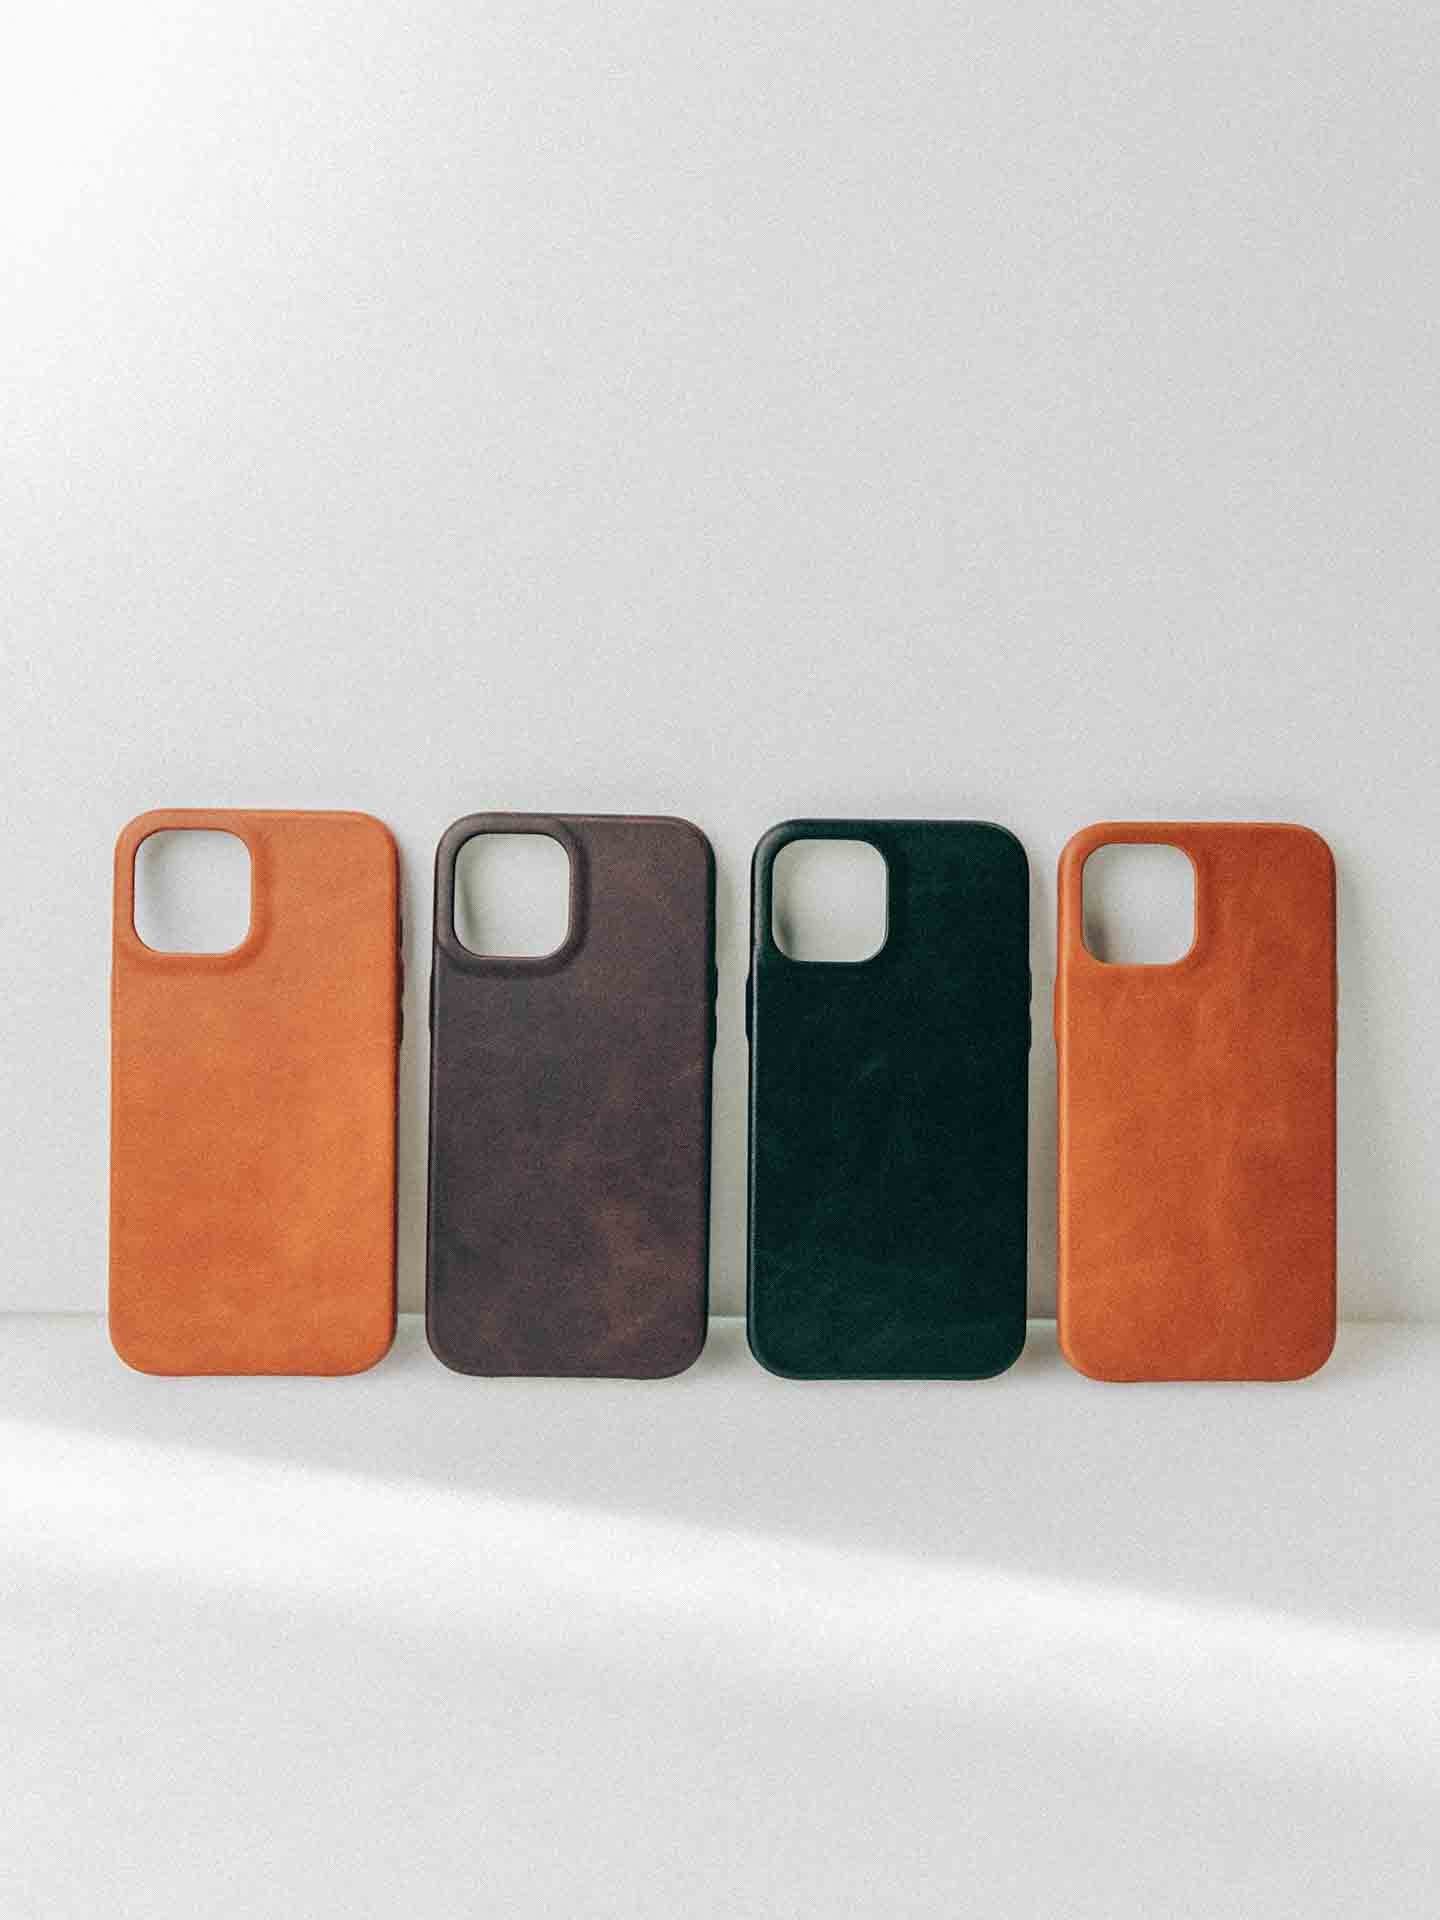
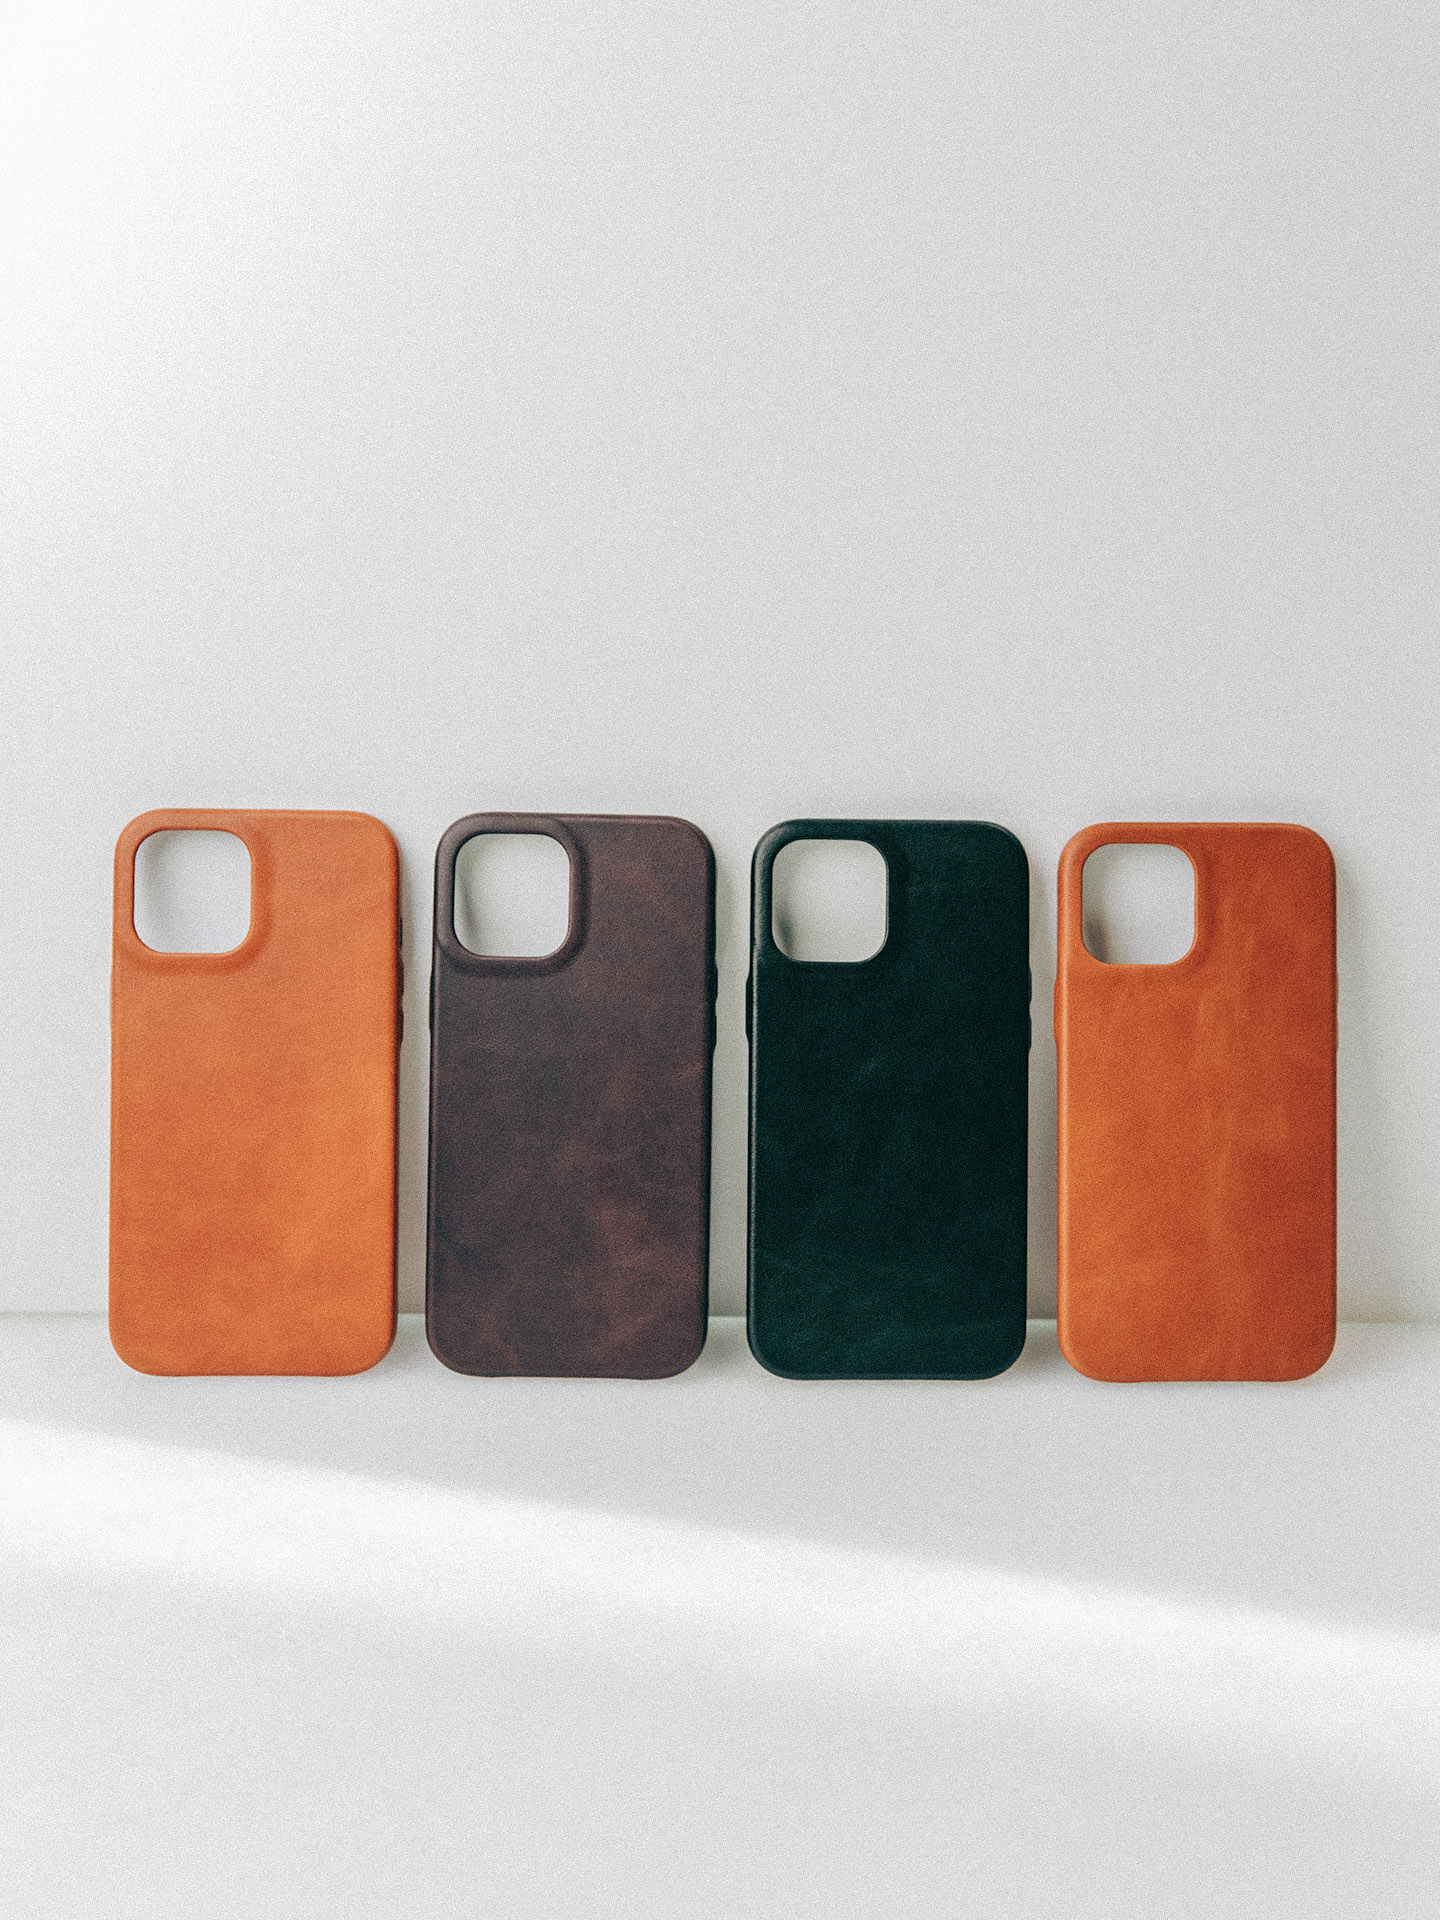
re-uploaded images with 80% quality

diff --git a/src/main/HomePage.css b/src/main/HomePage.css
@@ -90,7 +90,7 @@
     display: block;
     font-size: 35px;
     letter-spacing: -1.5px;
-    margin: -230px 0 0 144px;
+    margin: -230px 0 0 140px;
     opacity: 0.5;
     -webkit-text-stroke: 0.75px var(--dark-color);
     transition: all 750ms ease-in-out;
@@ -100,7 +100,7 @@
     display: block;
     font-size: 35px;
     letter-spacing: -1.5px;
-    margin: -230px 0 0 144px;
+    margin: -230px 0 0 140px;
     opacity: 0.5;
     -webkit-text-stroke: 0.75px var(--light-color);
     transition: all 750ms ease-in-out;
